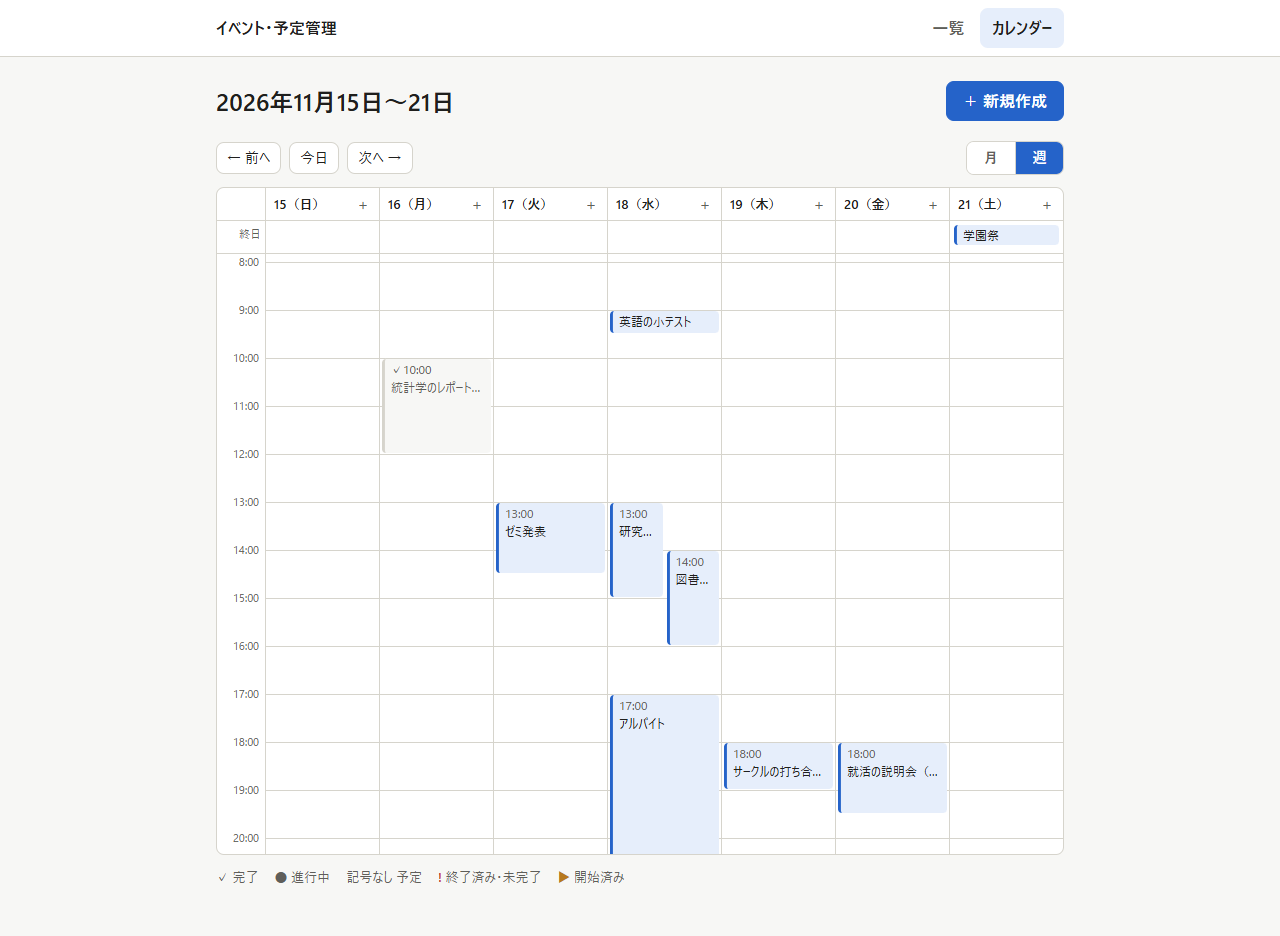
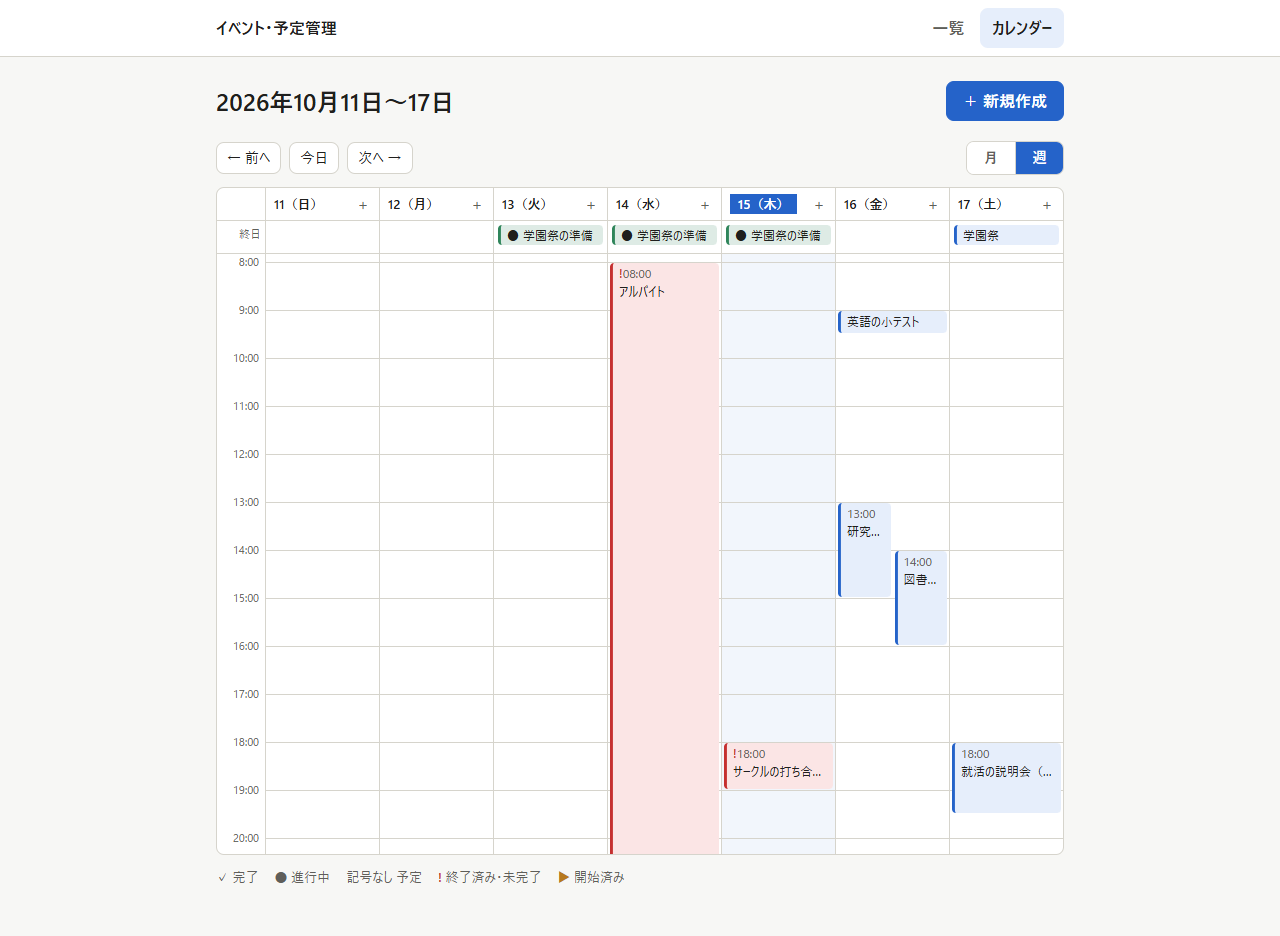
README のスクリーンショットを同じデータで撮り直し、撮り直す仕組みを追加する

diff --git a/tests/screenshots/readme.spec.ts b/tests/screenshots/readme.spec.ts
@@ -1,0 +1,134 @@
+import { expect, test, type Page } from "@playwright/test";
+import { createEvent, deleteAllEvents, field, jstDate } from "../e2e/helpers";
+
+// README のスクリーンショット（docs/images）を撮る。npm run screenshots で実行する。
+// 注意表示（終了済み・未完了など）はサーバーの今の時刻で決まるので、日付は撮る日からの相対で作り、
+// 5 枚とも同じデータ・同じ「今日」で撮る
+const images = "docs/images";
+
+/** 今日から days 日後の time（日本時間）。time を省くとその日の 0:00（終日のイベント用） */
+function at(days: number, time = "00:00") {
+  return `${jstDate(days)}T${time}:00+09:00`;
+}
+
+test.beforeAll(async ({ request }) => {
+  await deleteAllEvents(request);
+  const events = [
+    { title: "歯医者", startAt: at(-12, "10:00"), endAt: at(-12, "10:30"), status: "DONE" },
+    {
+      title: "前回のゼミ",
+      startAt: at(-7, "13:00"),
+      endAt: at(-7, "14:30"),
+      location: "3 号館 201",
+      status: "DONE",
+    },
+    {
+      title: "学園祭の準備",
+      allDay: true,
+      startAt: at(-2),
+      endAt: at(0),
+      location: "サークル棟",
+      status: "IN_PROGRESS",
+    },
+    {
+      title: "統計学のレポート提出",
+      startAt: at(-2, "23:59"),
+      endAt: at(-2, "23:59"),
+      status: "SCHEDULED",
+    },
+    {
+      title: "アルバイト",
+      startAt: at(-1, "08:00"),
+      endAt: at(-1, "23:30"),
+      location: "駅前のカフェ",
+      status: "SCHEDULED",
+    },
+    {
+      title: "サークルの打ち合わせ",
+      startAt: at(0, "18:00"),
+      endAt: at(0, "19:00"),
+      location: "部室",
+      status: "SCHEDULED",
+    },
+    {
+      title: "英語の小テスト",
+      startAt: at(1, "09:00"),
+      endAt: at(1, "09:30"),
+      location: "1 号館 105",
+      status: "SCHEDULED",
+    },
+    {
+      title: "研究室のミーティング",
+      startAt: at(1, "13:00"),
+      endAt: at(1, "15:00"),
+      status: "SCHEDULED",
+    },
+    { title: "図書館で勉強", startAt: at(1, "14:00"), endAt: at(1, "16:00"), status: "SCHEDULED" },
+    {
+      title: "就活の説明会（オンライン）",
+      startAt: at(2, "18:00"),
+      endAt: at(2, "19:30"),
+      status: "SCHEDULED",
+    },
+    { title: "学園祭", allDay: true, startAt: at(2), endAt: at(3), status: "SCHEDULED" },
+    {
+      title: "中間発表",
+      startAt: at(11, "13:00"),
+      endAt: at(11, "14:30"),
+      location: "3 号館 201",
+      status: "SCHEDULED",
+    },
+  ];
+  for (const event of events) {
+    await createEvent(request, event);
+  }
+});
+
+async function shoot(page: Page, name: string) {
+  await page.waitForLoadState("networkidle");
+  await page.screenshot({ path: `${images}/${name}.png` });
+}
+
+test("一覧（PC）", async ({ page }) => {
+  await page.setViewportSize({ width: 1280, height: 1264 });
+  await page.goto("/");
+  await expect(page.getByRole("article")).toHaveCount(12);
+  await shoot(page, "list");
+});
+
+test("カレンダー（週表示）", async ({ page }) => {
+  await page.setViewportSize({ width: 1280, height: 936 });
+  await page.goto(`/calendar?view=week&date=${jstDate(0)}`);
+  await expect(page.getByRole("link", { name: /研究室のミーティング/ })).toBeVisible();
+  await shoot(page, "calendar-week");
+});
+
+test("カレンダー（月表示）", async ({ page }) => {
+  await page.setViewportSize({ width: 1280, height: 900 });
+  await page.goto(`/calendar?view=month&date=${jstDate(0)}`);
+  await expect(page.getByRole("link", { name: /サークルの打ち合わせ/ })).toBeVisible();
+  await shoot(page, "calendar-month");
+});
+
+test("編集フォームのステータスの提案", async ({ page }) => {
+  await page.setViewportSize({ width: 1280, height: 1068 });
+  await page.goto("/");
+  await page.getByRole("link", { name: "アルバイト" }).click();
+  await page.getByRole("link", { name: "編集" }).click();
+  await field(page, "終了時刻").fill("23:45");
+  // 入力欄の選択の反転が写らないように、フォーカスを外す
+  await field(page, "場所").focus();
+  await page.locator(":focus").blur();
+  await expect(page.getByRole("button", { name: /提案：完了にする/ })).toBeVisible();
+  await shoot(page, "edit-suggestion");
+});
+
+test.describe("スマートフォン（ダーク）", () => {
+  test.use({ viewport: { width: 390, height: 844 }, deviceScaleFactor: 2, colorScheme: "dark" });
+
+  test("一覧", async ({ page }) => {
+    await page.goto("/");
+    await expect(page.getByRole("article")).toHaveCount(12);
+    await shoot(page, "list-mobile-dark");
+  });
+});

diff --git a/playwright.config.ts b/playwright.config.ts
@@ -25,6 +25,12 @@ export default defineConfig({
       // 手元では PC の Edge を使い、CI では Playwright の Chromium を使う
       use: { ...devices["Desktop Chrome"], channel: process.env.CI ? undefined : "msedge" },
     },
+    {
+      // README のスクリーンショットを撮る（npm run screenshots。テストではないので CI では動かさない）
+      name: "screenshots",
+      testDir: "./tests/screenshots",
+      use: { ...devices["Desktop Chrome"], channel: process.env.CI ? undefined : "msedge" },
+    },
   ],
   webServer: {
     // E2E 用の DB にマイグレーションを当て（DB がなければ作られる）、本番と同じビルドで確かめる。
